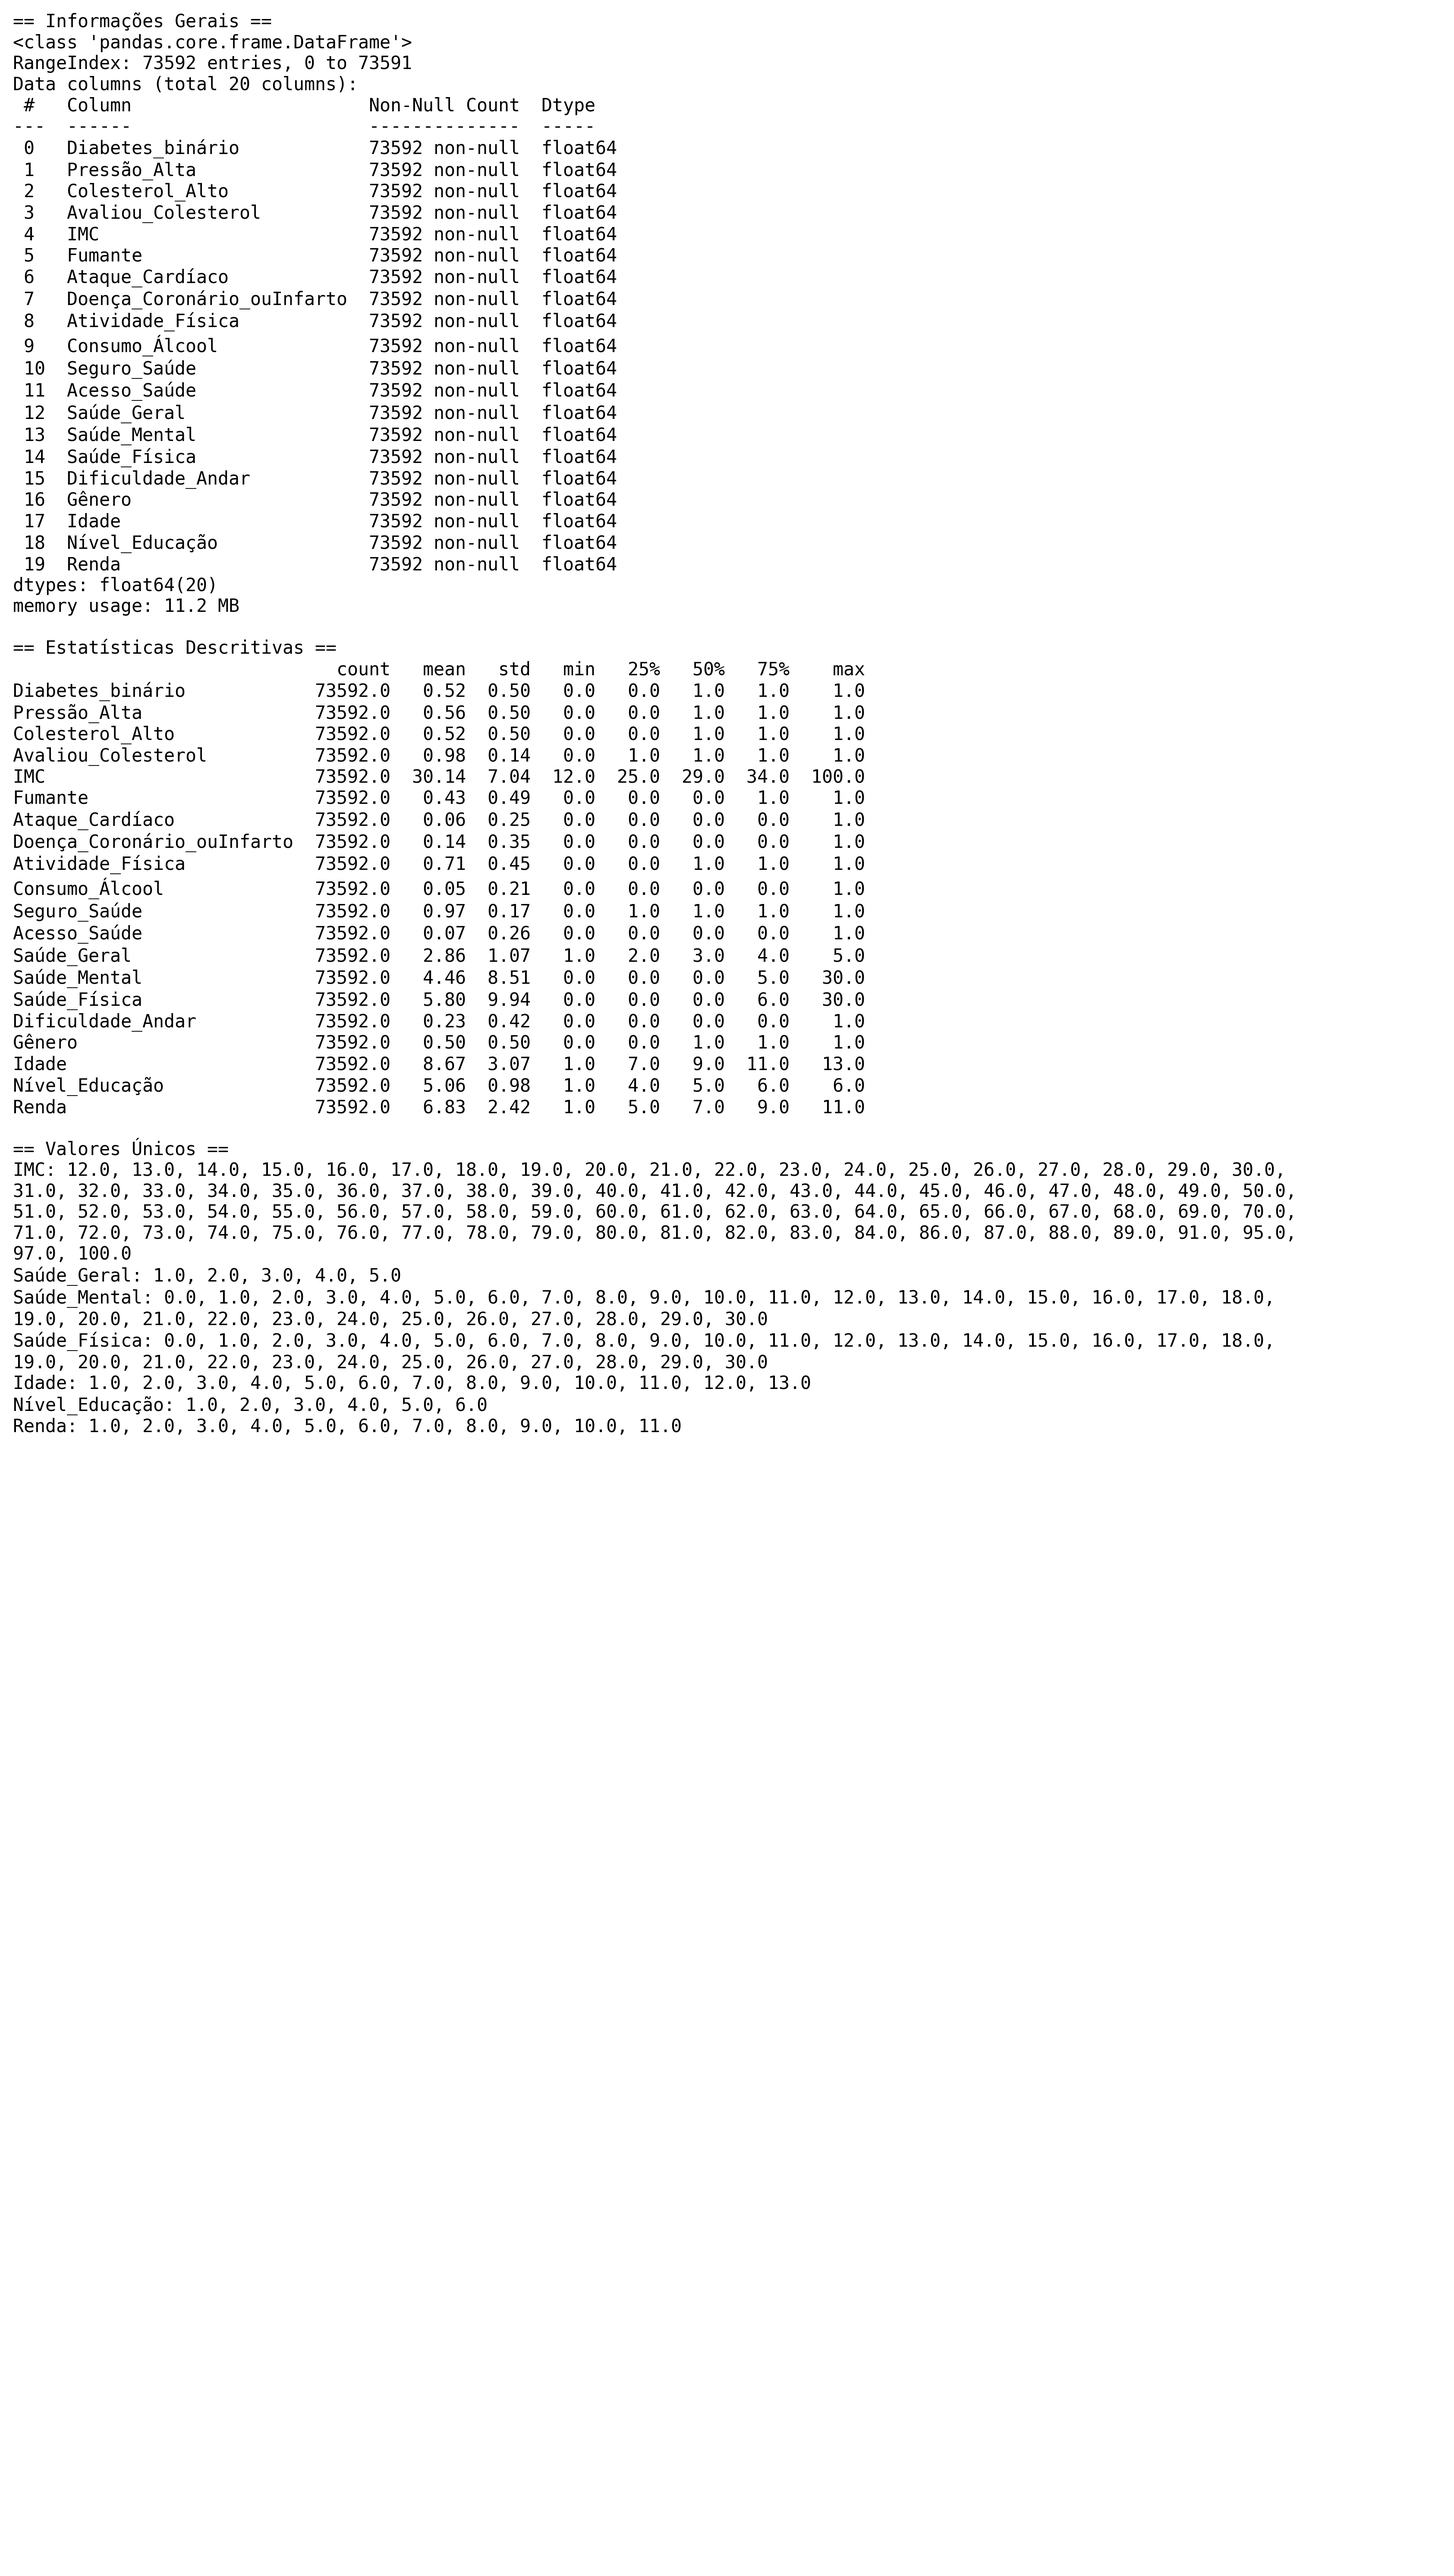
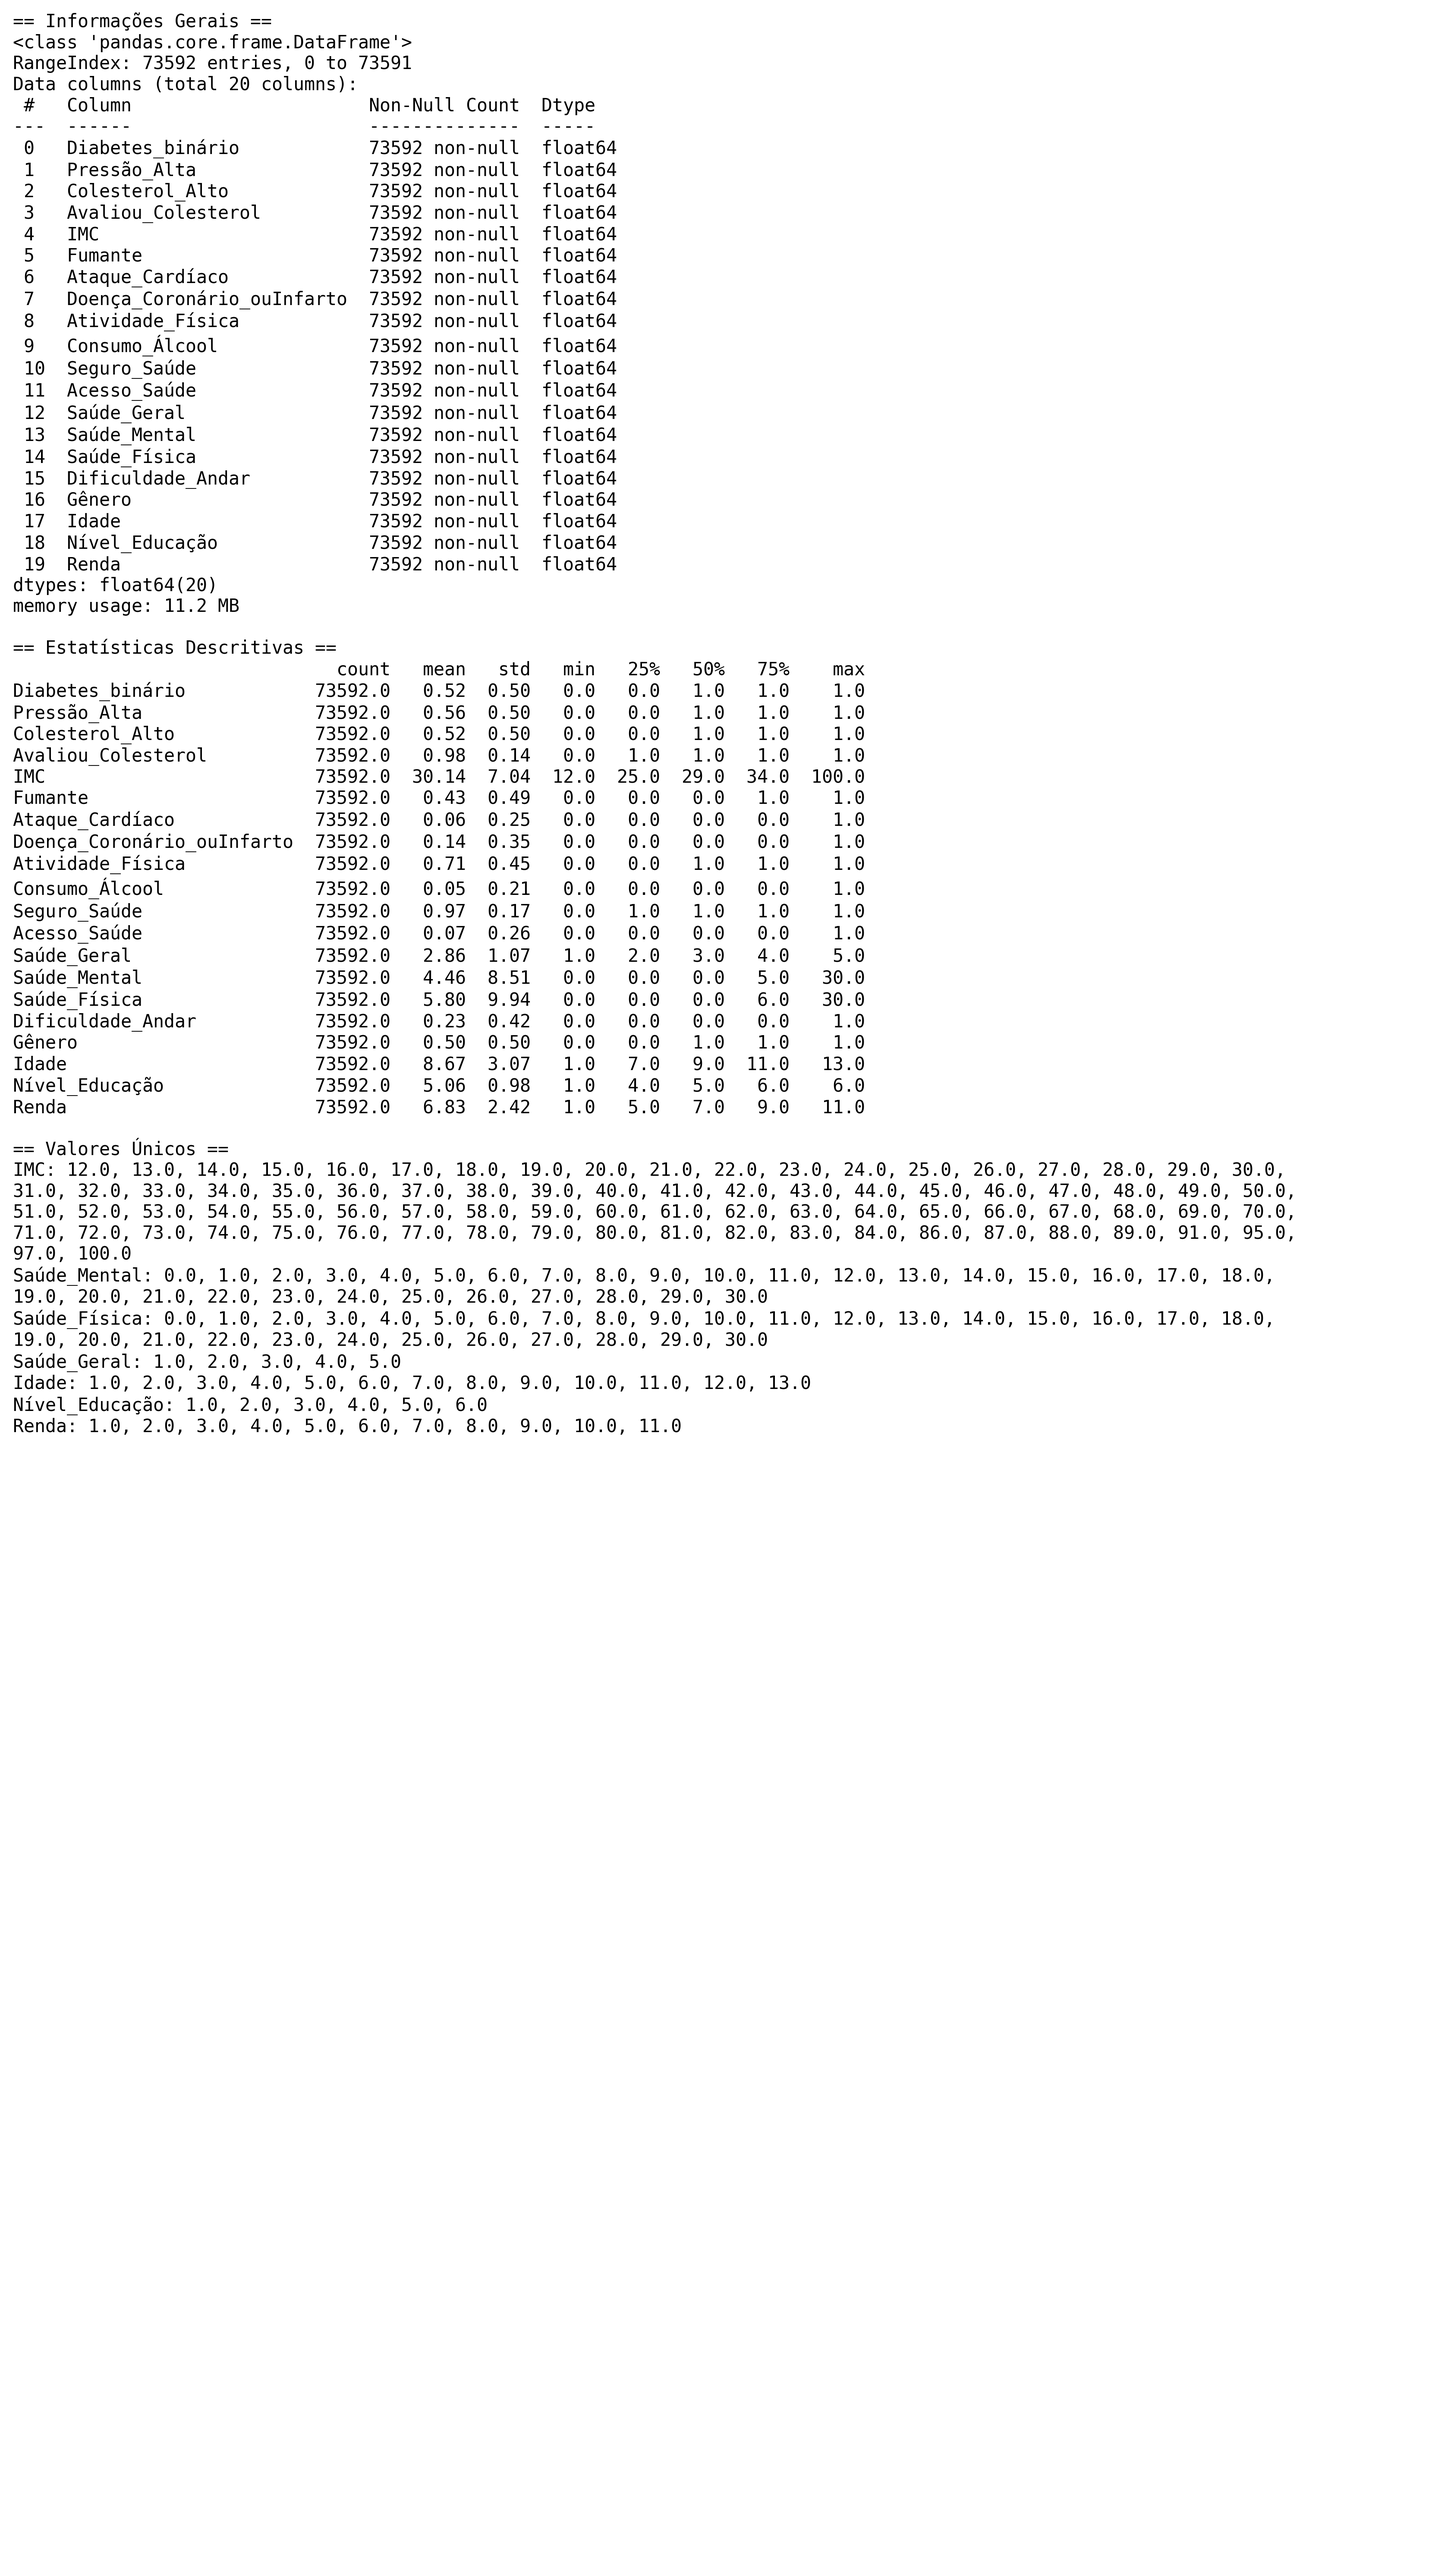
Ajuste na Estatística Descritiva.

diff --git a/dataset/variables_dictionary.py b/dataset/variables_dictionary.py
@@ -1,0 +1,181 @@
+# ================================================
+# Arquivo variables-dictionary.py
+#
+# Descrição:
+# -  Representação das variáveis presentes no Dataset
+# 
+# Uso:
+# Execute com Python 3.10 ou superior
+#
+# Observações:
+# - (...)
+# ================================================
+
+# Tipos de variáveis
+
+variaveis_binarias = {
+    "Diabetes_binário": {
+        "tipo": "Binária",
+        "valores": {
+            0: "Não possui Diabetes ou apenas Pré-Diabetes",
+            1: "Possui Diabetes"
+        }
+    },
+    "Pressão_Alta": {
+        "tipo": "Binária",
+        "valores": {
+            0: "Não possui Pressão Alta",
+            1: "Possui Pressão Alta"
+        }
+    },
+    "Colesterol_Alto": {
+        "tipo": "Binária",
+        "valores": {
+            0: "Não possui Colesterol Alto",
+            1: "Possui Colesterol Alto"
+        }
+    },
+    "Avaliou_Colesterol": {
+        "tipo": "Binária",
+        "valores": {
+            0: "Não avaliou o Colesterol nos últimos 5 anos",
+            1: "Avaliou o Colesterol nos últimos 5 anos"
+        }
+    },
+    "Fumante": {
+        "tipo": "Binária",
+        "valores": {
+            0: "Nunca fumou pelo menos 100 cigarros na vida",
+            1: "Já fumou pelo menos 100 cigarros na vida"
+        }
+    },
+    "Ataque_Cardíaco": {
+        "tipo": "Binária",
+        "valores": {
+            0: "Já teve um ataque cardíaco",
+            1: "Nunca teve um ataque cardíaco"
+        }
+    },
+    "Doença_Coronário_ouInfarto": {
+        "tipo": "Binária",
+        "valores": {
+            0: "Nunca teve CHD ou MI",
+            1: "Já teve CHD ou MI"
+        }
+    },
+    "Atividade_Física": {
+        "tipo": "Binária",
+        "valores": {
+            0: "Realizou atividade física nos últimos 30 dias",
+            1: "Não realizou atividade física nos últimos 30 dias"
+        }
+    },
+    "Consumo_Álcool": {
+        "tipo": "Binária",
+        "valores": {
+            0: "Alto consumo de álcool por semana",
+            1: "Baixo consumo de álcool por semana"
+        }
+    },
+    "Seguro_Saúde": {
+        "tipo": "Binária",
+        "valores": {
+            0: "Tem acesso a Seguro Saúde",
+            1: "Não tem acesso a Seguro Saúde"
+        }
+    },
+    "Acesso_Saúde": {
+        "tipo": "Binária",
+        "valores": {
+            0: "Tem acesso à Médicos e Hospitais",
+            1: "Não tem acesso à Médicos e Hospitais por motivos financeiros"
+        }
+    },
+    "Dificuldade_Andar": {
+        "tipo": "Binária",
+        "valores": {
+            0: "Apresenta dificuldade para andar ou subir escadas",
+            1: "Não apresenta dificuldade"
+        }
+    },
+    "Gênero": {
+        "tipo": "Binária",
+        "valores": {
+            0: "Feminino",
+            1: "Masculino"
+        }
+    }
+}
+
+variaveis_ordinais = {
+    "Saúde_Geral": {
+        "tipo": "Ordinal",
+        "valores": {
+            1: "Excelente Saúde",
+            2: "Muito boa",
+            3: "Boa",
+            4: "Justa",
+            5: "Ruim"
+        }
+    },
+    "Idade": {
+        "tipo": "Ordinal",
+        "valores": {
+            1: "18 a 24 anos",
+            2: "25 a 29 anos",
+            3: "30 a 34 anos",
+            4: "35 a 39 anos",
+            5: "40 a 44 anos",
+            6: "45 a 49 anos",
+            7: "50 a 54 anos",
+            8: "55 a 59 anos",
+            9: "60 a 64 anos",
+            10: "65 a 69 anos",
+            11: "70 a 74 anos",
+            12: "75 a 79 anos",
+            13: "80 anos ou mais"
+        }
+    },
+    "Nível_Educação": {
+        "tipo": "Ordinal",
+        "valores": {
+            1: "Nunca frequentou escola ou apenas jardim de infância",
+            2: "Entre a 1º e 8º série",
+            3: "Entre 9º ao 2º ano do Ensino Médio",
+            4: "Ensino Médio completo",
+            5: "Ensino Superior incompleto ou Técnico (1 a 3 anos)",
+            6: "Ensino Superior completo (4 anos ou mais)"
+        }
+    },
+    "Renda": {
+        "tipo": "Ordinal",
+        "valores": {
+            1: "Menos que 10.000 USD",
+            2: "Entre 10.000 a 15.000 USD",
+            3: "Entre 15.000 a 20.000 USD",
+            4: "Entre 20.000 a 25.000 USD",
+            5: "Entre 25.000 a 35.000 USD",
+            6: "Entre 35.000 a 50.000 USD",
+            7: "Entre 50.000 a 75.000 USD",
+            8: "Entre 75.000 a 100.000 USD",
+            9: "Entre 100.000 a 150.000 USD",
+            10: "Entre 150.000 a 200.000 USD",
+            11: "Mais que 200.000 USD"
+        }
+    }
+}
+
+variaveis_quantitativas = {
+    "IMC": {
+        "tipo": "Quantitativa contínua",
+        "faixa": "1 - 9999 (valores de BMI multiplicados por 100)"
+    },
+    "Saúde_Mental": {
+        "tipo": "Quantitativa discreta",
+        "faixa": "0 - 30 dias com saúde mental ruim nos últimos 30 dias"
+    },
+    "Saúde_Física": {
+        "tipo": "Quantitativa discreta",
+        "faixa": "0 - 30 dias com saúde física ruim nos últimos 30 dias"
+    }
+}

diff --git a/dataset/dataset_statistics.py b/dataset/dataset_statistics.py
@@ -9,6 +9,7 @@
 #
 # Observações:
 # - Os gráficos serão salvos na pasta ./graficos/
+# - Usa dicionário de variáveis importado do arquivo variables-dicitionary.py
 # ================================================
 
 import os
@@ -18,14 +19,29 @@ import seaborn as sns
 from textwrap import wrap
 import io
 
+# Importa os dicionários das variáveis
+from variables_dictionary import variaveis_binarias, variaveis_ordinais, variaveis_quantitativas
+
+# Junta todos os tipos de variáveis em um único dicionário
+variaveis_dict = {}
+
+for var, props in variaveis_binarias.items():
+    variaveis_dict[var] = props["tipo"]
+for var, props in variaveis_ordinais.items():
+    variaveis_dict[var] = props["tipo"]
+for var, props in variaveis_quantitativas.items():
+    variaveis_dict[var] = props["tipo"]
+
 os.makedirs("graficos", exist_ok=True)
 
+# Dataset
 dataset = '2023/diabetes_binary_5050split_health_indicators_BRFSS2023.csv'
 dados = pd.read_csv(dataset, sep=',')
 
+# Função para salvar informações gerais
+
 def salvar_informacoes_gerais_png(df, variaveis_verificacao, arquivo_saida="graficos/informacoes_gerais.png"):
     info_buffer = []
-
     buffer = io.StringIO()
     df.info(buf=buffer)
     info_buffer.append("== Informações Gerais ==")
@@ -48,47 +64,20 @@ def salvar_informacoes_gerais_png(df, variaveis_verificacao, arquivo_saida="graf
     ax.axis("off")
     full_text = "\n".join(info_buffer)
     ax.text(0, 1, full_text, fontsize=10, va="top", family="monospace")
-
     plt.tight_layout()
     plt.savefig(arquivo_saida, dpi=300, bbox_inches="tight")
     plt.close()
     print(f"Informações gerais salvas em: {arquivo_saida}")
 
-os.makedirs("graficos", exist_ok=True)
-variaveis_verificacao = ['IMC', 'Saúde_Geral', 'Saúde_Mental', 'Saúde_Física', 'Idade', 'Nível_Educação', 'Renda']
+variaveis_verificacao = list(variaveis_quantitativas.keys()) + list(variaveis_ordinais.keys())
 salvar_informacoes_gerais_png(dados, variaveis_verificacao)
 
-# Configurações de estilo
+# Análise descritiva
 sns.set(style="whitegrid")
 plt.rcParams["figure.figsize"] = (10, 6)
 
-# Tipos de variáveis
-tipos_variaveis = {
-    "Diabetes_binário": "Binária",
-    "Pressão_Alta": "Binária",
-    "Colesterol_Alto": "Binária",
-    "Avaliou_Colesterol": "Binária",
-    "IMC": "Quantitativa contínua",
-    "Fumante": "Binária",
-    "Ataque_Cardíaco": "Binária",
-    "Doença_Coronário_ouInfarto": "Binária",
-    "Atividade_Física": "Binária",
-    "Consumo_Álcool": "Binária",
-    "Seguro_Saúde": "Binária",
-    "Acesso_Saúde": "Binária",
-    "Saúde_Geral": "Ordinal",
-    "Saúde_Mental": "Quantitativa Discreta",
-    "Saúde_Física": "Quantitativa Discreta",
-    "Dificuldade_Andar": "Binária",
-    "Gênero": "Binária",
-    "Idade": "Ordinal",
-    "Nível_Educação": "Ordinal",
-    "Renda": "Ordinal"
-}
-
-# Estatísticas + gráficos
-for var, tipo in tipos_variaveis.items():
-    print(f"\n🔹 Variável: {var} ({tipo})")
+for var, tipo in variaveis_dict.items():
+    print(f"\nVariável: {var} ({tipo})")
 
     if var not in dados.columns:
         print("Variável não encontrada no dataset.")
@@ -100,7 +89,6 @@ for var, tipo in tipos_variaveis.items():
         print(serie.describe())
         print("Moda:", serie.mode().values[0] if not serie.mode().empty else "N/A")
 
-        # Histograma
         plt.figure()
         sns.histplot(serie, kde=True, bins=20, color="steelblue")
         plt.title(f"Histograma: {var}")
@@ -118,7 +106,6 @@ for var, tipo in tipos_variaveis.items():
         print(percents.round(2))
         print("Moda:", serie.mode().values[0])
 
-        # Gráfico de barras
         plt.figure()
         sns.countplot(x=serie, order=sorted(serie.unique()), palette="pastel")
         plt.title(f"Distribuição de {var}")
@@ -128,7 +115,6 @@ for var, tipo in tipos_variaveis.items():
         plt.savefig(f"graficos/{var}_barras.png")
         plt.close()
 
-        # Gráfico de pizza
         plt.figure()
         counts.plot.pie(autopct='%1.1f%%', startangle=90, counterclock=False, colors=sns.color_palette("pastel"))
         plt.title(f"Distribuição de {var}")
